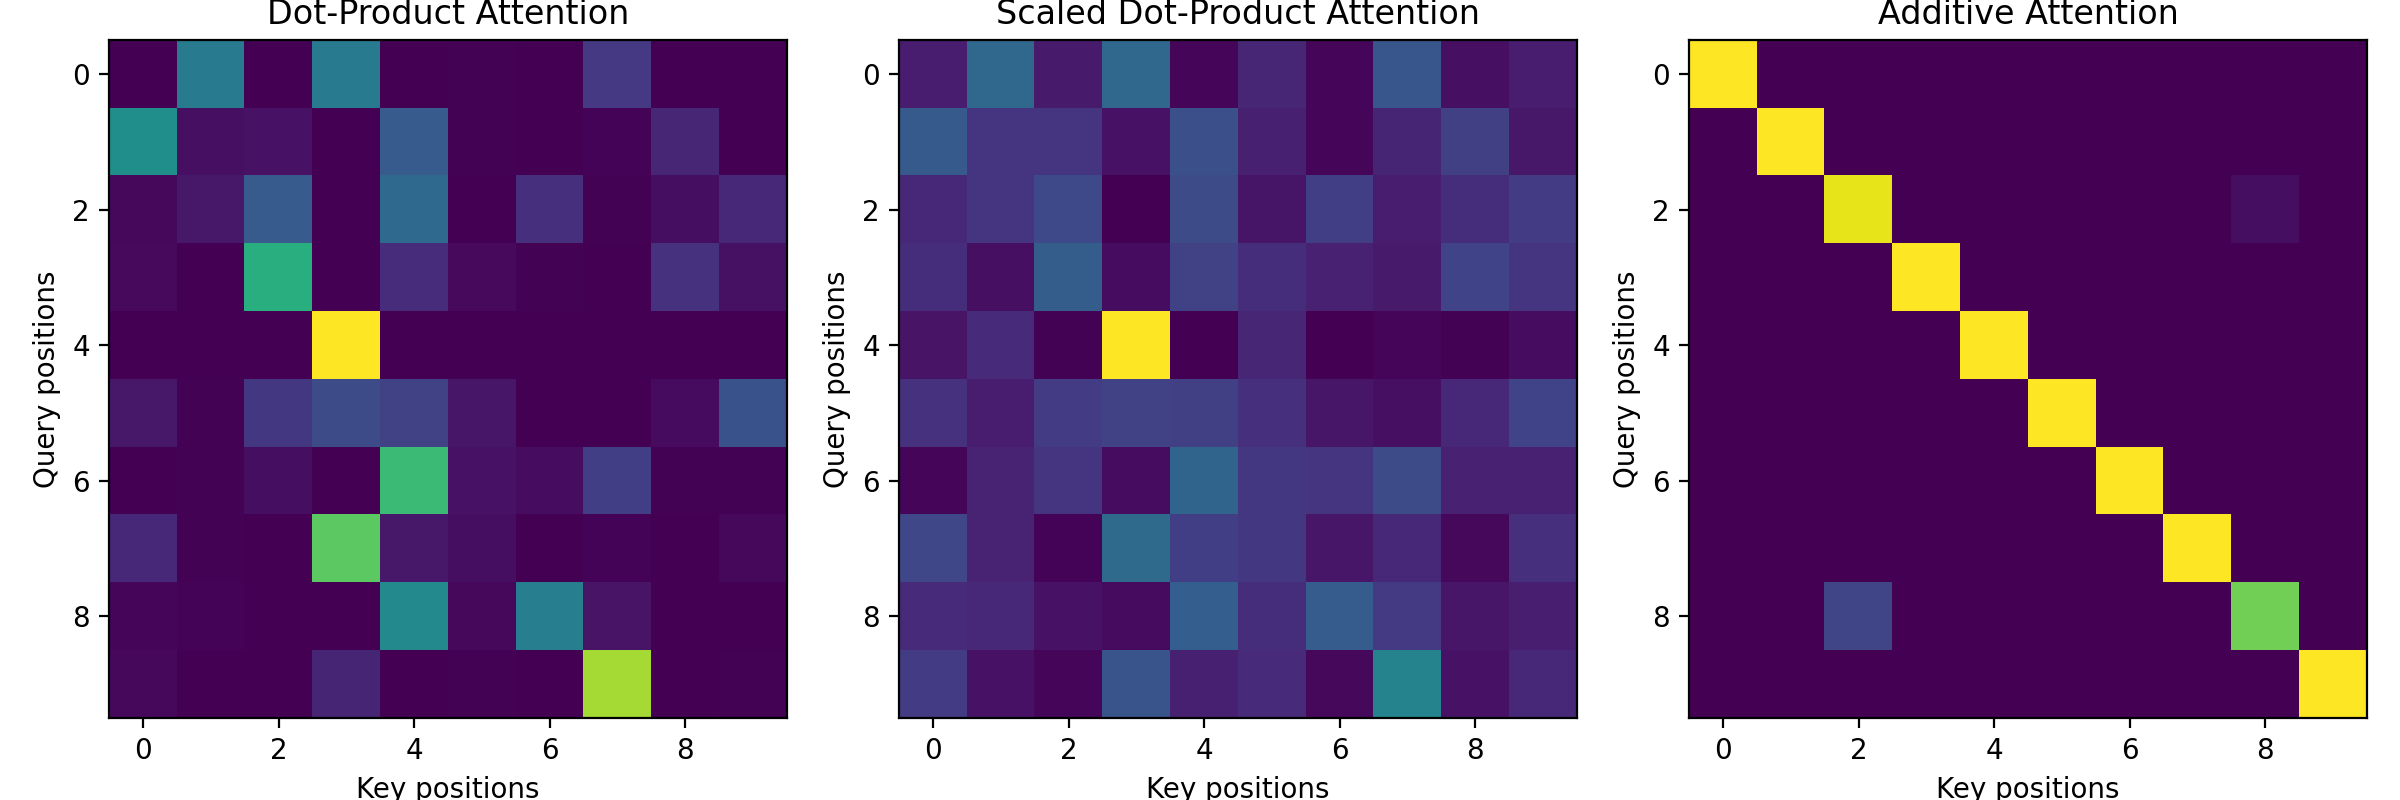
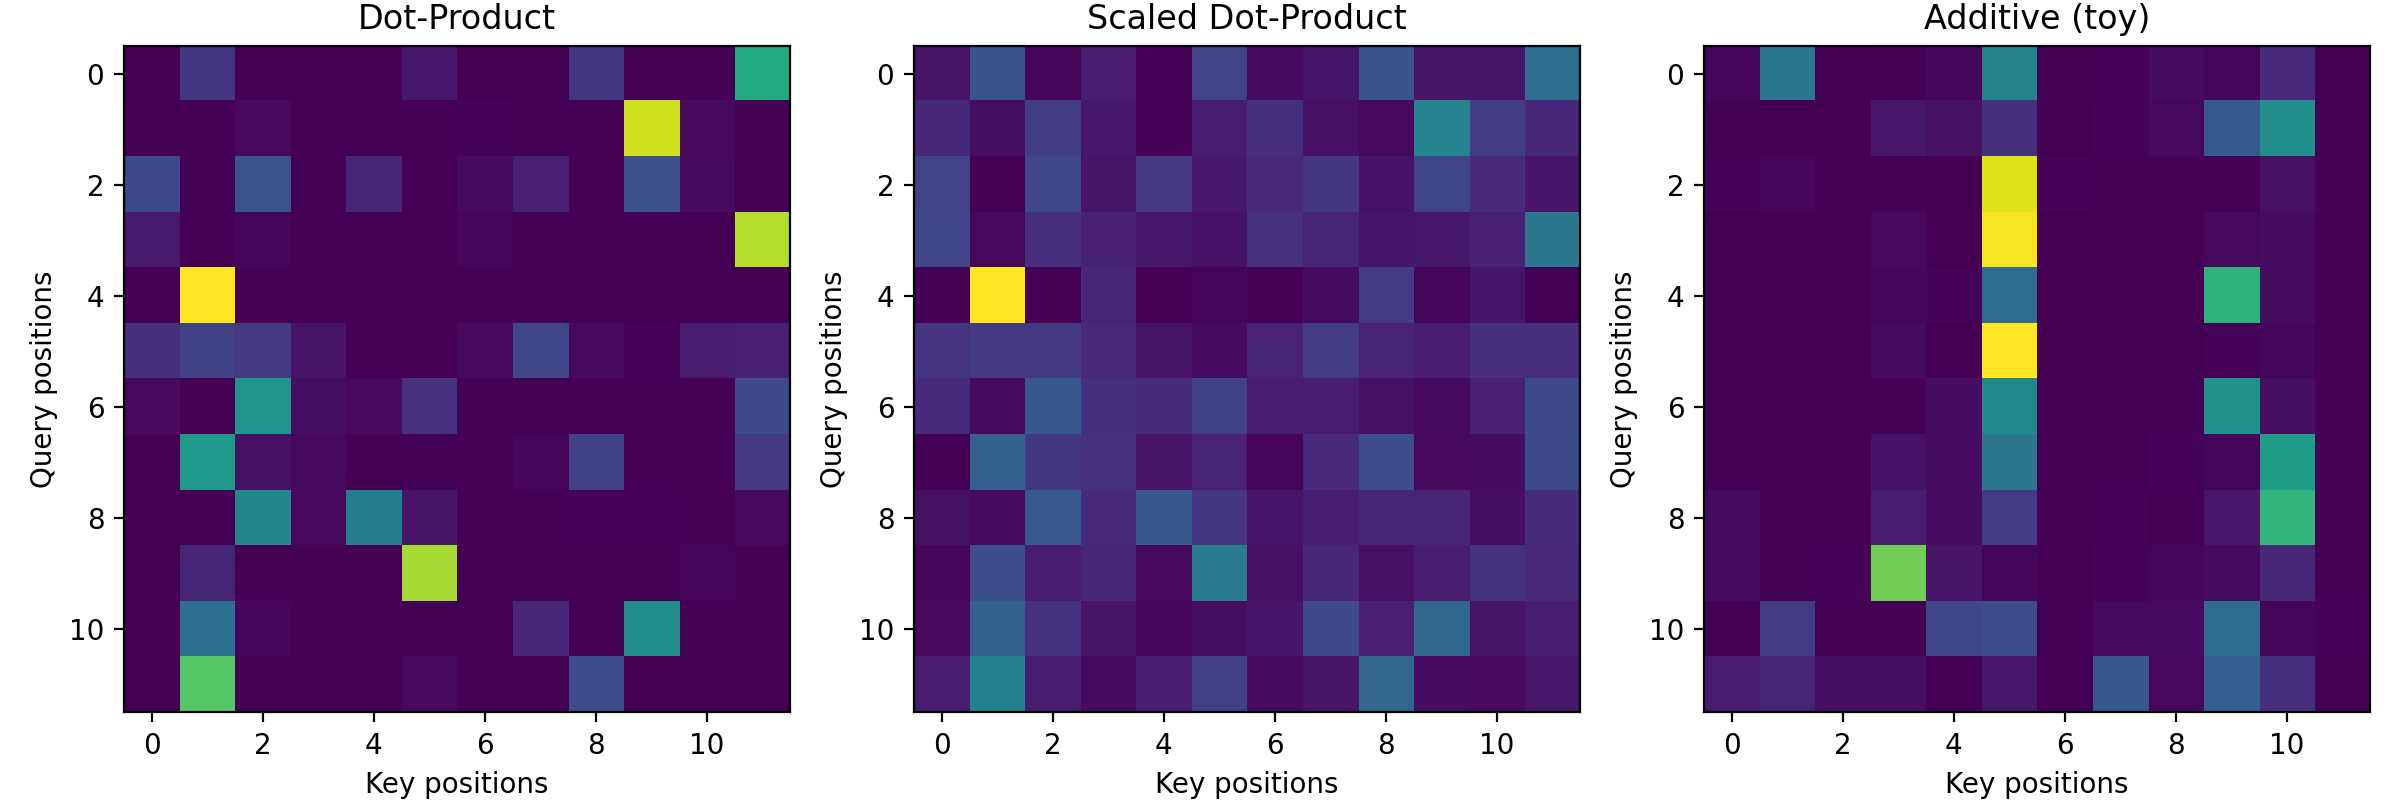
Compare dot-product, scaled and additive attention

diff --git a/experiments/compare_attention_mechanisms.py b/experiments/compare_attention_mechanisms.py
@@ -18,15 +18,22 @@ def scaled_dot_product_attention(Q, K):
 
 
 def additive_attention(Q, K):
-    W = np.random.randn(Q.shape[1], Q.shape[1])
-    scores = np.tanh(Q @ W + K @ W)
-    return softmax(scores @ scores.T)
+    # Simple additive-style scoring (toy, not trained)
+    Wq = np.random.randn(Q.shape[1], Q.shape[1])
+    Wk = np.random.randn(K.shape[1], K.shape[1])
+    v = np.random.randn(Q.shape[1])
+
+    scores = np.zeros((Q.shape[0], K.shape[0]))
+    for i in range(Q.shape[0]):
+        for j in range(K.shape[0]):
+            scores[i, j] = np.dot(v, np.tanh(Q[i] @ Wq + K[j] @ Wk))
+    return softmax(scores)
 
 
 def main():
     np.random.seed(42)
 
-    seq_len = 10
+    seq_len = 12
     d_k = 16
 
     Q = np.random.randn(seq_len, d_k)
@@ -39,13 +46,13 @@ def main():
     fig, axes = plt.subplots(1, 3, figsize=(12, 4))
 
     axes[0].imshow(attn_dot)
-    axes[0].set_title("Dot-Product Attention")
+    axes[0].set_title("Dot-Product")
 
     axes[1].imshow(attn_scaled)
-    axes[1].set_title("Scaled Dot-Product Attention")
+    axes[1].set_title("Scaled Dot-Product")
 
     axes[2].imshow(attn_add)
-    axes[2].set_title("Additive Attention")
+    axes[2].set_title("Additive (toy)")
 
     for ax in axes:
         ax.set_xlabel("Key positions")
@@ -55,7 +62,7 @@ def main():
     plt.savefig("figures/attention_mechanisms_comparison.png", dpi=200)
     plt.close()
 
-    print("Saved figures/attention_mechanisms_comparison.png")
+    print("Saved: figures/attention_mechanisms_comparison.png")
 
 
 if __name__ == "__main__":
